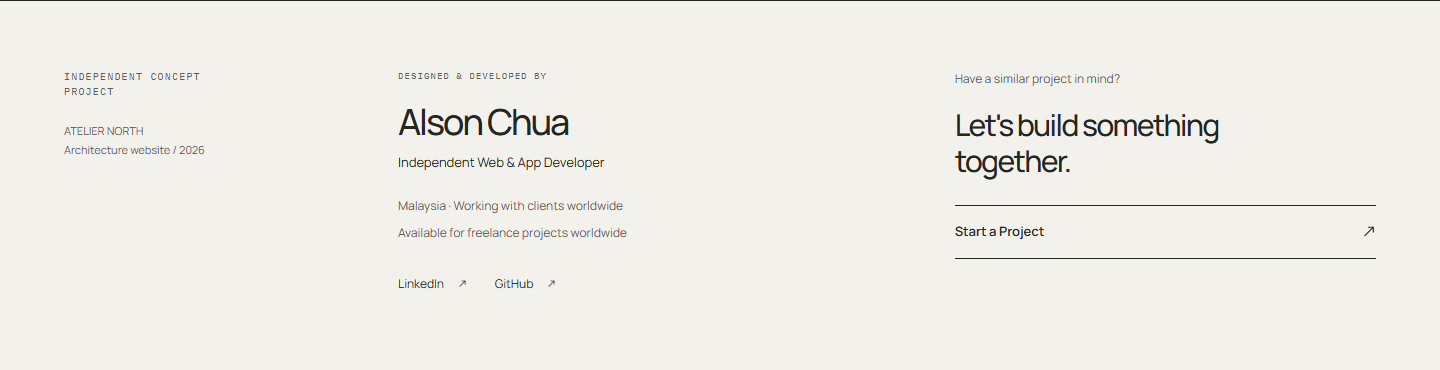
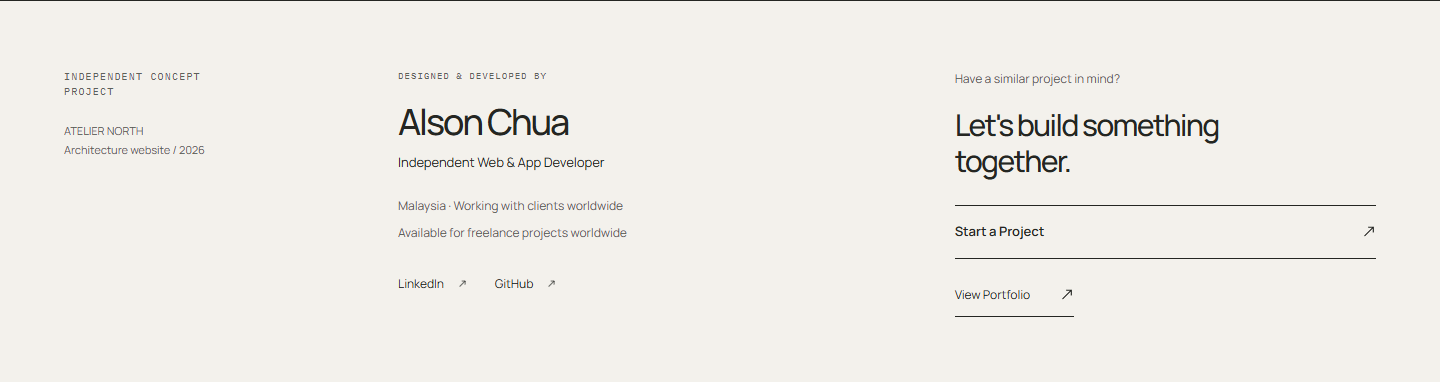
Audit creator contact system and refresh portfolio QA

diff --git a/QA.md b/QA.md
@@ -11,17 +11,17 @@ This is a fictional **Concept Project**. The studio, five project studies, locat
 | `npm run lint` | Passed; no ESLint errors |
 | `npm run typecheck` | Passed; no TypeScript errors |
 | `npm run build` | Passed; Next.js production build completed |
-| `npm test` | Passed; 14 browser tests, 0 failures, 0 skipped, 0 flaky |
-| Creator configuration post-test | Passed; 2 tests covering null/configured portfolio URLs and encoded contact context |
+| `npm test` | Earlier integration run passed 14 browser tests, 0 failures, 0 skipped, 0 flaky; not rerun for this audit |
+| `npm run test:creator-config` | Passed again; 2 tests covering null/configured portfolio URLs and encoded contact context |
 | `npm run test:creator` | Passed; 15 checks across five browser/device profiles |
 | Creator layout comparison | Passed; 0 sampled core layout/style changes across 48 page/width combinations |
-| `npm run test:icons` | Earlier icon verification passed 10 checks across five profiles; both icon tests also pass in the current main Chrome suite |
-| Screenshot post-test step | Passed; full-page captures and cover crops saved |
+| `npm run test:icons` | Earlier icon verification passed 10 checks across five profiles; both icon tests also passed in the earlier main Chrome suite |
+| Full-page screenshot post-test step | Earlier integration run passed; the current audit refreshed creator/footer review captures separately |
 | `npm audit` | Earlier project verification reported 0 known vulnerabilities; not repeated for the creator integration |
 
-Build ID: `qC5tNcMYkToK3JbGlNCh0`.
+Build ID for the 29 September creator audit: `-nyTNM0MDxMtKSnsHkU78`.
 
-Environment: Windows, Node.js 24.13.0, Next.js 16.3.6, React 19.3.0, TypeScript 6.0.3, Tailwind 4.3.3, installed Google Chrome through Playwright. The final main browser suite completed in 52.3 seconds. Machine-readable results are in [browser-results.json](qa/browser-results.json). The [icon consistency audit](ICON-CONSISTENCY-QA.md) records the earlier symbol matrix and visual comparison. The [creator integration record](CREATOR-INTEGRATION.md) explains the new contact layer and its verification.
+Environment: Windows, Node.js 24.13.0, Next.js 16.3.6, React 19.3.0, TypeScript 6.0.3, Tailwind 4.3.3, installed Google Chrome through Playwright. The earlier main browser suite completed in 52.3 seconds; its retained machine-readable results are in [browser-results.json](qa/browser-results.json). The [icon consistency audit](ICON-CONSISTENCY-QA.md) records the earlier symbol matrix and visual comparison. The [creator integration record](CREATOR-INTEGRATION.md) explains the contact layer. This audit reran lint, type checking, production build, configuration tests, the creator browser matrix and creator visual/layout review.
 
 ## Routes and content
 
@@ -46,13 +46,30 @@ Unknown project, article and general routes returned HTTP 404 with the designed 
 
 ## Creator and real freelance contact
 
+The audit found an existing creator system. Every requested capability was already present; no application, configuration, component, style or motion changes were required in this audit. Documentation describing the portfolio as unset was corrected, and QA records/captures were refreshed.
+
+| Requested capability | Audit result |
+| --- | --- |
+| Central creator configuration | Present in `config/creator.ts`; real details are imported by components |
+| Name and professional title | Alson Chua; Independent Web & App Developer |
+| Concept status | Independent Concept Project |
+| Creator/contact section | Shared footer, near the bottom of every page |
+| Location and availability | Malaysia/worldwide location and freelance availability displayed |
+| View Portfolio | Exact configured live portfolio URL, safe external link and SVG arrow |
+| Start a Project | Native disclosure offering both WhatsApp and Email |
+| Email and WhatsApp | Configured addresses and encoded ATELIER NORTH context |
+| LinkedIn and GitHub | Configured profile URLs, safe external navigation and SVG arrows |
+| Fictional studio CTA | Original `/contact` path preserved and distinct from creator contact |
+
 The original studio footer now leads into a separate creator colophon with **Independent Concept Project**, **Designed & developed by Alson Chua**, his professional title, Malaysia/worldwide location and freelance availability. It is present on all routes through the shared footer; the creator suite explicitly checks eight representative content routes and the designed 404 page.
 
 **Start a Project** opens a native disclosure with both WhatsApp and Email. Tests verify the exact configured destinations, properly encoded project-specific message/subject/body, LinkedIn and GitHub links, external-link attributes, SVG icons and future tracking identifiers. The studio CTA still leads to the fictional enquiry demonstration. Personal information is centralized in `config/creator.ts`, including the author metadata.
 
-With `creator.portfolioUrl: null`, no portfolio link is rendered. Two configuration tests verify both that absent state and the automatic appearance of a configured URL, plus contact generation after profile/project changes.
+`creator.portfolioUrl` now points to `https://alson-portfolio-nine.vercel.app/`, and the creator section shows **View Portfolio** with the existing SVG arrow. Two configuration tests still verify the conditional behavior for both an absent URL and a configured URL, plus contact generation after profile/project changes. The served production homepage includes the exact portfolio destination, while the studio's original `/contact` CTA remains separate.
 
-The dedicated creator matrix passed **15 checks** across Windows Chrome, Windows Edge, WebKit desktop, iPhone WebKit emulation and Android Chrome emulation. Each profile checks **375, 390, 430, 768, 1024 and 1440px**. Controls meet the 44px minimum height, contact text is unclipped, no horizontal overflow is detected, keyboard/touch disclosure operation and visible focus pass, and Axe reports zero creator-section violations. The matrix completed in 56.2 seconds with no failures, skips or flaky results: [browser-matrix.json](qa/creator/browser-matrix.json).
+The dedicated creator matrix was rerun after the portfolio link was enabled and passed **15 checks** across Windows Chrome, Windows Edge, WebKit desktop, iPhone WebKit emulation and Android Chrome emulation. Each profile checks **375, 390, 430, 768, 1024 and 1440px**. Controls meet the 44px minimum height, contact text is unclipped, no horizontal overflow is detected, keyboard/touch disclosure operation and visible focus pass, and Axe reports zero creator-section violations. The matrix completed in 51.3 seconds with no failures, skips or flaky results: [browser-matrix.json](qa/creator/browser-matrix.json).
+
+The portfolio, GitHub and WhatsApp destinations returned HTTP 200 during this audit. LinkedIn returned HTTP 999 to an automated request, so its exact configured URL and link markup were verified but external profile availability was not confirmed. The email `mailto:` destination and encoded ATELIER NORTH WhatsApp message were checked locally; no message was sent. A source scan found no banned emoji or Unicode arrow interface literals in the application, components or creator configuration.
 
 Before/after core layout measurements cover eight page types at those six widths. Header, primary/editorial headings, editorial images and original footer blocks retain their sampled geometry (within 0.5px), typography, color and spacing: [core-layout-differences.json](qa/creator/core-layout-differences.json) contains zero differences.
 
@@ -110,8 +127,10 @@ Two additional opening crops, `homepage-cover.png` and `mobile-cover.png`, are a
 
 ## Workspace isolation and remaining limits
 
-This numbered project is an independent application with its own dependencies, configuration and QA commands. The parent portfolio's TypeScript and ESLint exclusions were updated only for this project's directory. Verification confirmed that the parent compiler includes zero files from this project and that its linter ignores this project's source path.
+This audit inspected and modified only the independent `atelier-architecture` project. It has its own dependencies, configuration and QA commands. No sibling portfolio project was modified or included in the checks.
 
-Broad parent checks remain independently failing because other numbered projects are included by the parent's configuration and produce unrelated generated-file/module errors. Those sibling applications were not modified. The passing results above apply to this standalone architecture site.
+The branch is `backup`, tracking `origin/backup`, and origin is `https://github.com/yiz1118/atelier-architecture.git`. A live `git ls-remote` check before the audit commit showed both remote `backup` and `master` at `d4b691a8f7af66aad3ce178e979a560a5b96ffa0`. Local portfolio activation commit `4f7c13f` was therefore not on either remote branch. This audit does not push commits; use `git status -sb` and `git log` to inspect the final local commit/ahead state.
 
-The site has not been deployed or tested on a physical device, native macOS/iOS Safari or Firefox. WebKit engine and device-emulation checks run on Windows. Real creator destinations and prefilled text have been validated locally without sending email or WhatsApp messages or checking third-party account availability. No email provider, backend, analytics collector, persistent studio enquiry storage or real studio credentials are configured. Before any future deployment, configure `NEXT_PUBLIC_SITE_URL` with the public origin and repeat checks on that deployed environment.
+GitHub's deployment API showed Vercel deployment `6732591816`, environment `Production`, state `success`, for that initial commit. This confirms existing Vercel integration history. The current Vercel production-branch setting could not be verified from the checkout; no local `.vercel/project.json` or `vercel.json` is present. With Git deployment enabled, pushes to the configured production branch trigger production deployment; other branches normally receive previews. See [Vercel Git deployment documentation](https://vercel.com/docs/git). Pushing `backup` alone must not be described as a confirmed production update.
+
+This audit did not verify a deployed ATELIER NORTH site, a physical device, native macOS/iOS Safari or Firefox. WebKit engine and device-emulation checks run on Windows. No email provider, backend, analytics collector, persistent studio enquiry storage or real studio credentials are configured. For a deployed version, configure `NEXT_PUBLIC_SITE_URL` with the public origin and repeat checks on that environment.

diff --git a/CREATOR-INTEGRATION.md b/CREATOR-INTEGRATION.md
@@ -10,21 +10,21 @@ The original header, navigation, page content, photographs, animation rules and 
 
 ## Central configuration
 
-`config/creator.ts` is the only implementation source for the creator's name, title, email, location, availability, LinkedIn, GitHub, WhatsApp number/URL and future portfolio URL. Components and author metadata import it. The same file contains `conceptProject.name` and `conceptProject.year` for the creator label and message context.
+`config/creator.ts` is the only implementation source for the creator's name, title, email, location, availability, LinkedIn, GitHub, WhatsApp number/URL and portfolio URL. Components and author metadata import it. The same file contains `conceptProject.name` and `conceptProject.year` for the creator label and message context.
 
 `creatorContactLinks()` derives both contact URLs from that configuration and URL-encodes their text. The WhatsApp message identifies the ATELIER NORTH concept project and asks to discuss a website/app project. The email subject is **Project Inquiry — ATELIER NORTH**, with a short prefilled introduction in the body.
 
 ## Contact behavior
 
-**Start a Project** is a native `details`/`summary` disclosure. Activating it reveals WhatsApp and Email together, with a visible phone number and email address. It works with pointer, touch and keyboard without an extra client component. The summary is at least 54px tall; contact rows are at least 68px tall. Profile links and the optional portfolio link have a minimum 44px height.
+**Start a Project** is a native `details`/`summary` disclosure. Activating it reveals WhatsApp and Email together, with a visible phone number and email address. It works with pointer, touch and keyboard without an extra client component. The summary is at least 54px tall; contact rows are at least 68px tall. Profile and portfolio links have a minimum 44px height.
 
-WhatsApp, LinkedIn, GitHub and the future portfolio open in a new tab with `rel="noopener noreferrer"`. Email uses `mailto:` and the visitor's configured email client. All interface arrows use the existing decorative, `currentColor` SVG component. Focus remains visible, and the email can wrap without clipping.
+WhatsApp, LinkedIn, GitHub and View Portfolio open in a new tab with `rel="noopener noreferrer"`. Email uses `mailto:` and the visitor's configured email client. All interface arrows use the existing decorative, `currentColor` SVG component. Focus remains visible, and the email can wrap without clipping.
 
-## Enable the future portfolio
+## Portfolio destination
 
-Keep `creator.portfolioUrl: null` until the main portfolio exists. No placeholder, disabled link or public “coming soon” text is rendered.
+`creator.portfolioUrl` is set to `https://alson-portfolio-nine.vercel.app/`. The creator section therefore shows **View Portfolio**, linking from this concept website to the live main portfolio.
 
-Once the portfolio is live, change that value in `config/creator.ts` to its full HTTPS URL, then run `npm run build` and restart the production server. **View Portfolio** appears automatically beside the creator contact invitation. A configuration test renders the actual component with both a null URL and a configured URL to verify this behavior.
+If the address changes, edit that single value in `config/creator.ts`, then run `npm run build` and restart the production server. A configuration test renders the actual component with both a null URL and a configured URL to verify the conditional link behavior.
 
 ## Tracking preparation
 
@@ -37,14 +37,14 @@ The creator section has `data-analytics-project="ATELIER NORTH"`. Controls expos
 | WhatsApp | `creator_whatsapp` |
 | LinkedIn | `creator_linkedin` |
 | GitHub | `creator_github` |
-| Portfolio, once configured | `creator_portfolio` |
+| View Portfolio | `creator_portfolio` |
 
 A future click listener can read the closest event attribute and the enclosing project attribute. The disclosure activation identifier covers both opening and closing; a future handler can check the resulting `details.open` state if only opening should count.
 
 ## Verification
 
 - Lint, TypeScript checking and the production build pass.
-- The complete browser suite passes 14 tests; its post-test step passes two creator configuration tests and refreshes the five portfolio captures and two cover crops.
+- The earlier integration run passed the complete 14-test browser suite and refreshed five portfolio captures and two cover crops. This audit reran the two creator configuration tests successfully.
 - The dedicated creator matrix passes 15 checks across Windows Chrome, Windows Edge, WebKit desktop, iPhone WebKit emulation and Android Chrome emulation.
 - Each profile checks 375, 390, 430, 768, 1024 and 1440px layouts, keyboard or touch activation, focus, control height, unclipped contact text, horizontal overflow and automated accessibility. The creator section reports zero Axe violations.
 - Creator status and credit are checked on eight representative content routes plus the designed 404 page. Link destinations, encoded messages, external-link attributes and tracking identifiers are checked without sending a message.
@@ -55,7 +55,7 @@ Evidence is in `qa/creator/browser-matrix.json`, `qa/creator/before-layout.json`
 
 Commands: `npm test`, `npm run test:creator`, `npm run test:creator-config` and, against a running production server, `node scripts/creator-review.mjs`.
 
-The browser matrix runs on Windows with browser engines and device emulation. Physical iPhone, Android and macOS testing was not performed. External destinations and prefilled content were validated locally; email delivery, WhatsApp delivery and third-party account availability were not exercised. The site remains a local preview.
+The browser matrix runs on Windows with browser engines and device emulation. Physical iPhone, Android and macOS testing was not performed. The portfolio, GitHub and WhatsApp destinations returned HTTP 200 during the audit; LinkedIn returned HTTP 999 to an automated request, leaving external profile availability unconfirmed. Contact destinations and prefilled content were checked without sending email or WhatsApp messages. Runtime verification used the local production preview; the pending local commits are not yet on GitHub. See `QA.md` for remote and Vercel evidence.
 
 ## Files
 

diff --git a/README.md b/README.md
@@ -60,6 +60,6 @@ The ruled creator colophon beneath the original studio footer identifies this as
 
 Update personal details in **`config/creator.ts`**. The same file supplies the creator credit, real contact destinations, prefilled messages and author metadata. `conceptProject.name` controls the project context in the contact messages.
 
-`creator.portfolioUrl` is currently `null`, so no portfolio link is rendered. When the main portfolio is live, replace `null` with its full HTTPS URL and rebuild/restart the production application. **View Portfolio** will then appear automatically; no component edit is needed.
+`creator.portfolioUrl` points to the live main portfolio at `https://alson-portfolio-nine.vercel.app/`, so **View Portfolio** appears in the creator section. If the portfolio address changes, update that one configuration value and rebuild/restart the production application; no component edit is needed.
 
 The layer adds no client JavaScript or analytics package. Semantic `data-analytics-event` identifiers are ready for future tracking. See [CREATOR-INTEGRATION.md](CREATOR-INTEGRATION.md) for implementation, event names and verification evidence. With the production server running, `node scripts/creator-review.mjs` refreshes the six creator review sheets and compares core layout metrics against the saved pre-integration baseline.
